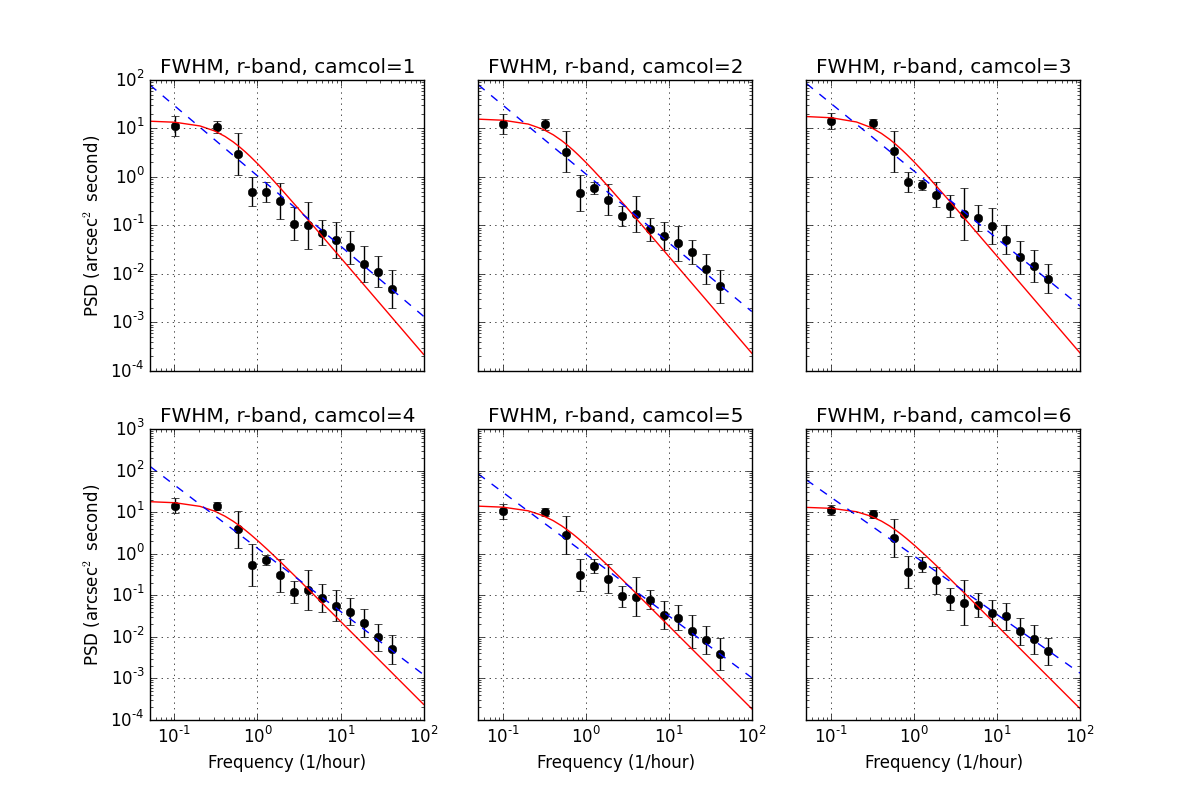
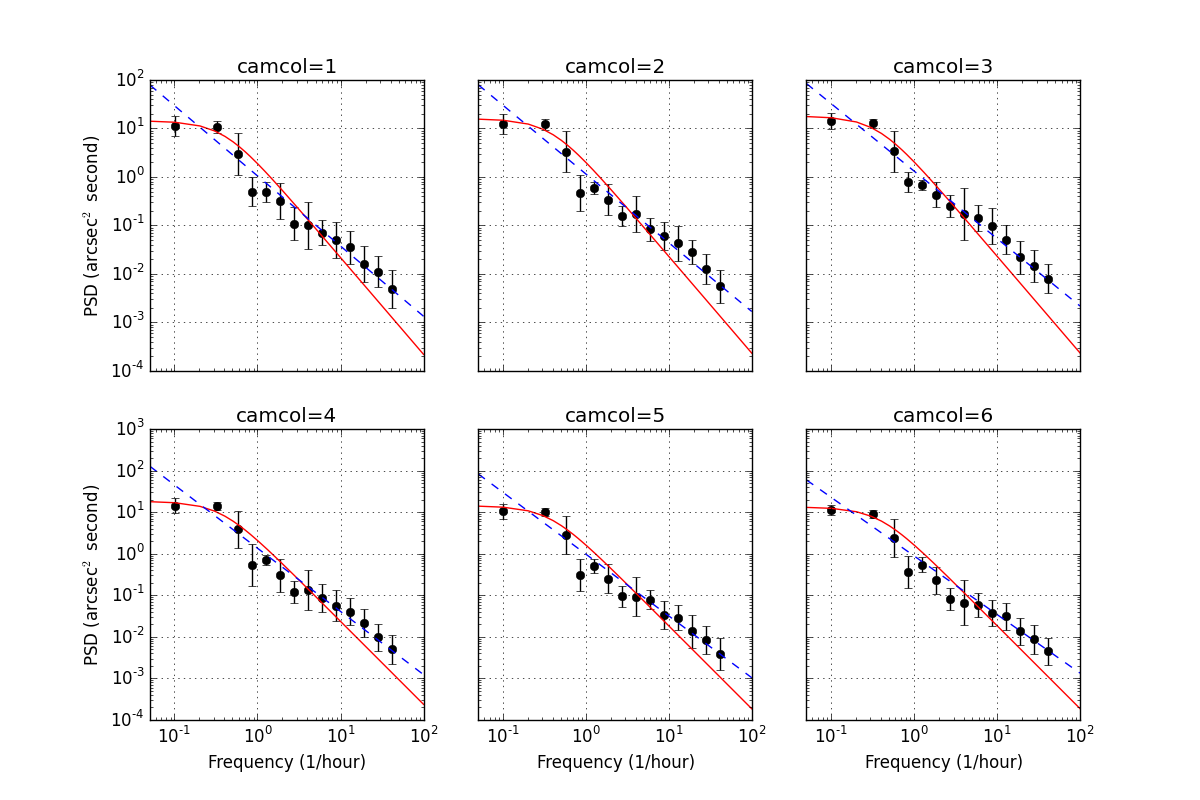
clean up figure captions

diff --git a/analysis/source/draw_1run_1field_vK_2G.py b/analysis/source/draw_1run_1field_vK_2G.py
@@ -51,7 +51,7 @@ def main():
     run = args.irun
     print('------ running on run# %d ---------' % run)
     f, ax1 = plt.subplots(nBand, nCamcol, sharex='col',
-                          sharey='row', figsize=(12, 8))  # a plot is for a run
+                          sharey='row', figsize=(15, 10))  # a plot is for a run
 
     outdir = "%s/%d/" % (rootName, run)
     for camcol in range(1, nCamcol + 1): #(2,3): #
@@ -94,24 +94,27 @@ def main():
             #    psf.chi2, psf.G2chi2, psf.chi2lr, psf.G2chi2lr, psf.chi2hr, psf.G2chi2hr))
 
             if args.yscale == 'log' or args.yscale == 'logzoom':
-                ax1[iBand, camcol - 1].plot(psf.vR, np.log10(psf.vv), '-b')
+                ax1[iBand, camcol - 1].semilogy(psf.vR, psf.vv, '-b')
                 # draw double Gaussian as Red
                 # ax1[iBand, camcol -
                 #    1].plot(psf.r, psf.LpsfModel + np.log10(psf.scaleV), 'r')
-                ax1[iBand, camcol - 1].plot(psf.vvR, np.log10(psf.vvv), '--r')
-                ax1[iBand, camcol - 1].errorbar(psf.OKprofRadii, psf.OKprofile,
-                                                psf.OKprofileErr, fmt='ok')
+                ax1[iBand, camcol - 1].semilogy(psf.vvR, psf.vvv, '--r')
+                lower_error = 10**(psf.OKprofile)-10**(psf.OKprofile-psf.OKprofileErr)
+                upper_error = 10**(psf.OKprofile+psf.OKprofileErr)-10**(psf.OKprofile)
+                asymmetric_error = [lower_error, upper_error]
+                ax1[iBand, camcol - 1].errorbar(psf.OKprofRadii, 10**psf.OKprofile,
+                                                asymmetric_error, fmt='ok')
                 if args.yscale == 'log':
                     ax1[iBand, camcol - 1].set_xlim(0, 30.0)
-                    ax1[iBand, camcol - 1].set_ylim(-6, 0.5)
+                    ax1[iBand, camcol - 1].set_ylim(1e-6, 10**0.5)
                     if camcol == 1:
                         text = 'band: %s' % band[iBand]
                         ax1[iBand, camcol -
-                            1].text(10, -2, text, fontsize=15, ha='left',
+                            1].text(10, 1e-2, text, fontsize=15, ha='left',
                                     va='center')
                 elif args.yscale == 'logzoom':
                     ax1[iBand, camcol - 1].set_xlim(0, 2)
-                    ax1[iBand, camcol - 1].set_ylim(-1.5, 0.1)
+                    ax1[iBand, camcol - 1].set_ylim(10**-1.5, 10**0.1)
             elif args.yscale == 'linear':
                 ax1[iBand, camcol - 1].plot(psf.vR, psf.vv, '-b')
                 # draw double Gaussian as Red
@@ -133,7 +136,15 @@ def main():
             if iBand == 0:
                 ax1[iBand, camcol - 1].set_title('camcol=%d' % camcol)
 
-    plt.suptitle('run %d, field %d, dashed: vK only, solid: vK+instrument ' % (run, args.ifield))
+    # plt.suptitle('run %d, field %d, dashed: vK only, solid: vK+instrument ' % (run, args.ifield))
+
+    f.add_subplot(111, frameon=False)
+    # hide tick and tick label of the big axes
+    plt.tick_params(labelcolor='none', top='off', bottom='off', left='off', right='off')
+    plt.grid(False)
+    plt.xlabel("Radius (arcsec)", {'fontsize': 16})
+    # plt.ylabel("Normalized intensity", {'fontsize': 20})
+    
     # plt.tight_layout()
     # plt.show()
     plt.savefig('output/run%d_fld%d_psf_vK_2G_%s.png' %

diff --git a/analysis/source/correlate_temporal_bin.py b/analysis/source/correlate_temporal_bin.py
@@ -282,8 +282,9 @@ def main():
                 
                 #ax1[iRow, iCol].set_title('run%d, %s, %s, camcol=%s' %
                 #            (run, fwhmStr, sdss.band[band], camcol))
-                ax1[iRow, iCol].set_title('%s, %s-band, camcol=%s' %
-                            (fwhmStr.upper(), sdss.band[band], camcol))                
+                # ax1[iRow, iCol].set_title('%s, %s-band, camcol=%s' %
+                #            (fwhmStr.upper(), sdss.band[band], camcol))
+                ax1[iRow, iCol].set_title('camcol=%s' % camcol)
                 ax1[iRow, iCol].grid()
                 #plt.show()
 

diff --git a/sdsspsf.tex b/sdsspsf.tex
@@ -12,8 +12,8 @@
 
 \title{A Study of the Point Spread Function in SDSS Images}    %line break \\ is allowed in title
 
-\author{B. Xin$^1$, \v{Z}. Ivezi\'{c}$^2$, R.H. Lupton$^3$,  J.R. Peterson$^4$, P. Yoachim$^2$, 
-R.L. Jones$^2$, C. Claver$^1$, G. Angeli$^{1*}$}
+\author{B. Xin$^1$, \v{Z}. Ivezi\'{c}$^2$, R. H. Lupton$^3$,  J. R. Peterson$^4$, P. Yoachim$^2$, 
+R. L. Jones$^2$, C. Claver$^1$, G. Angeli$^{1*}$}
 \and
 \author{Other Contributors}
 

diff --git a/PSFprofile.tex b/PSFprofile.tex
@@ -139,4 +139,3 @@ we always use run 4874 as the fiducial example run.
 \end{tabular}
 \end{center}
 \end{table}
-
